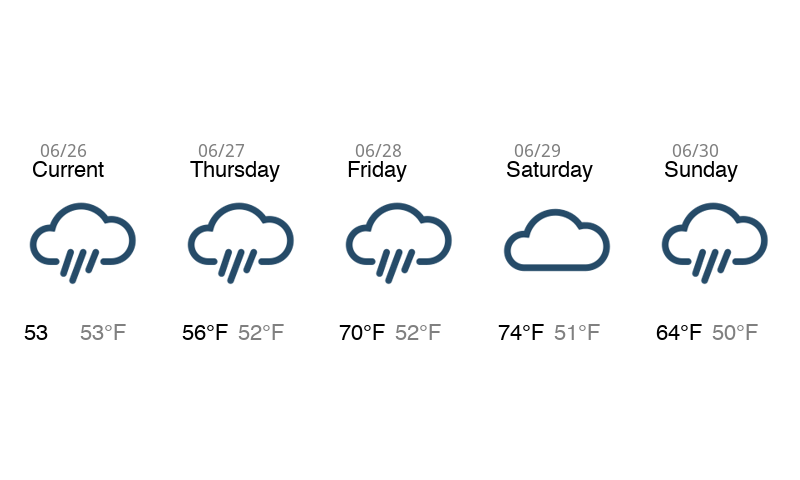
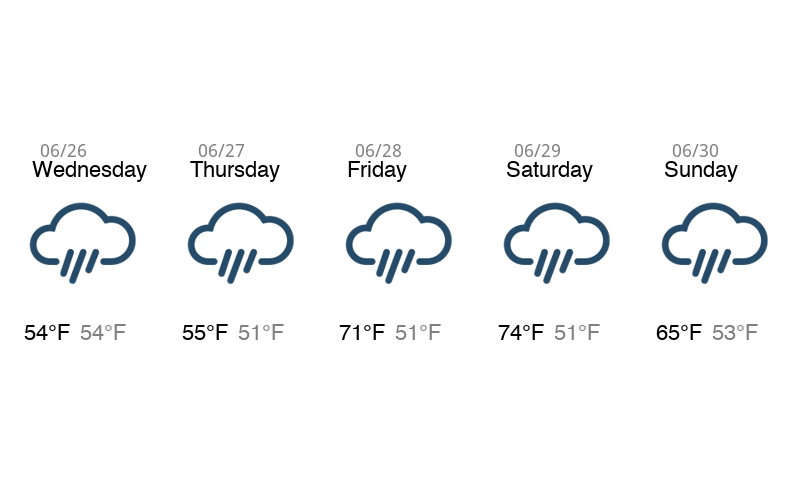
fix temp display

diff --git a/assets/tools/forecast_builder/WeatherData.py b/assets/tools/forecast_builder/WeatherData.py
@@ -105,10 +105,10 @@ class WeatherData:
                 print("sunset: ", sunset)
                 print("now: ", TODAY)
             if i == 0:
-                week_day = "Current"
+                # week_day = "Current"
                 if is_night:
                     self.nightmode = True
-                    max_temp = str(day["temp"]["night"])
+                    max_temp = str(day["temp"]["night"]) + "\u2109"
                 else:
                     self.nightmode = False
             self.icons = self.get_icons(ICON_DIR, self.bg, self.nightmode)
